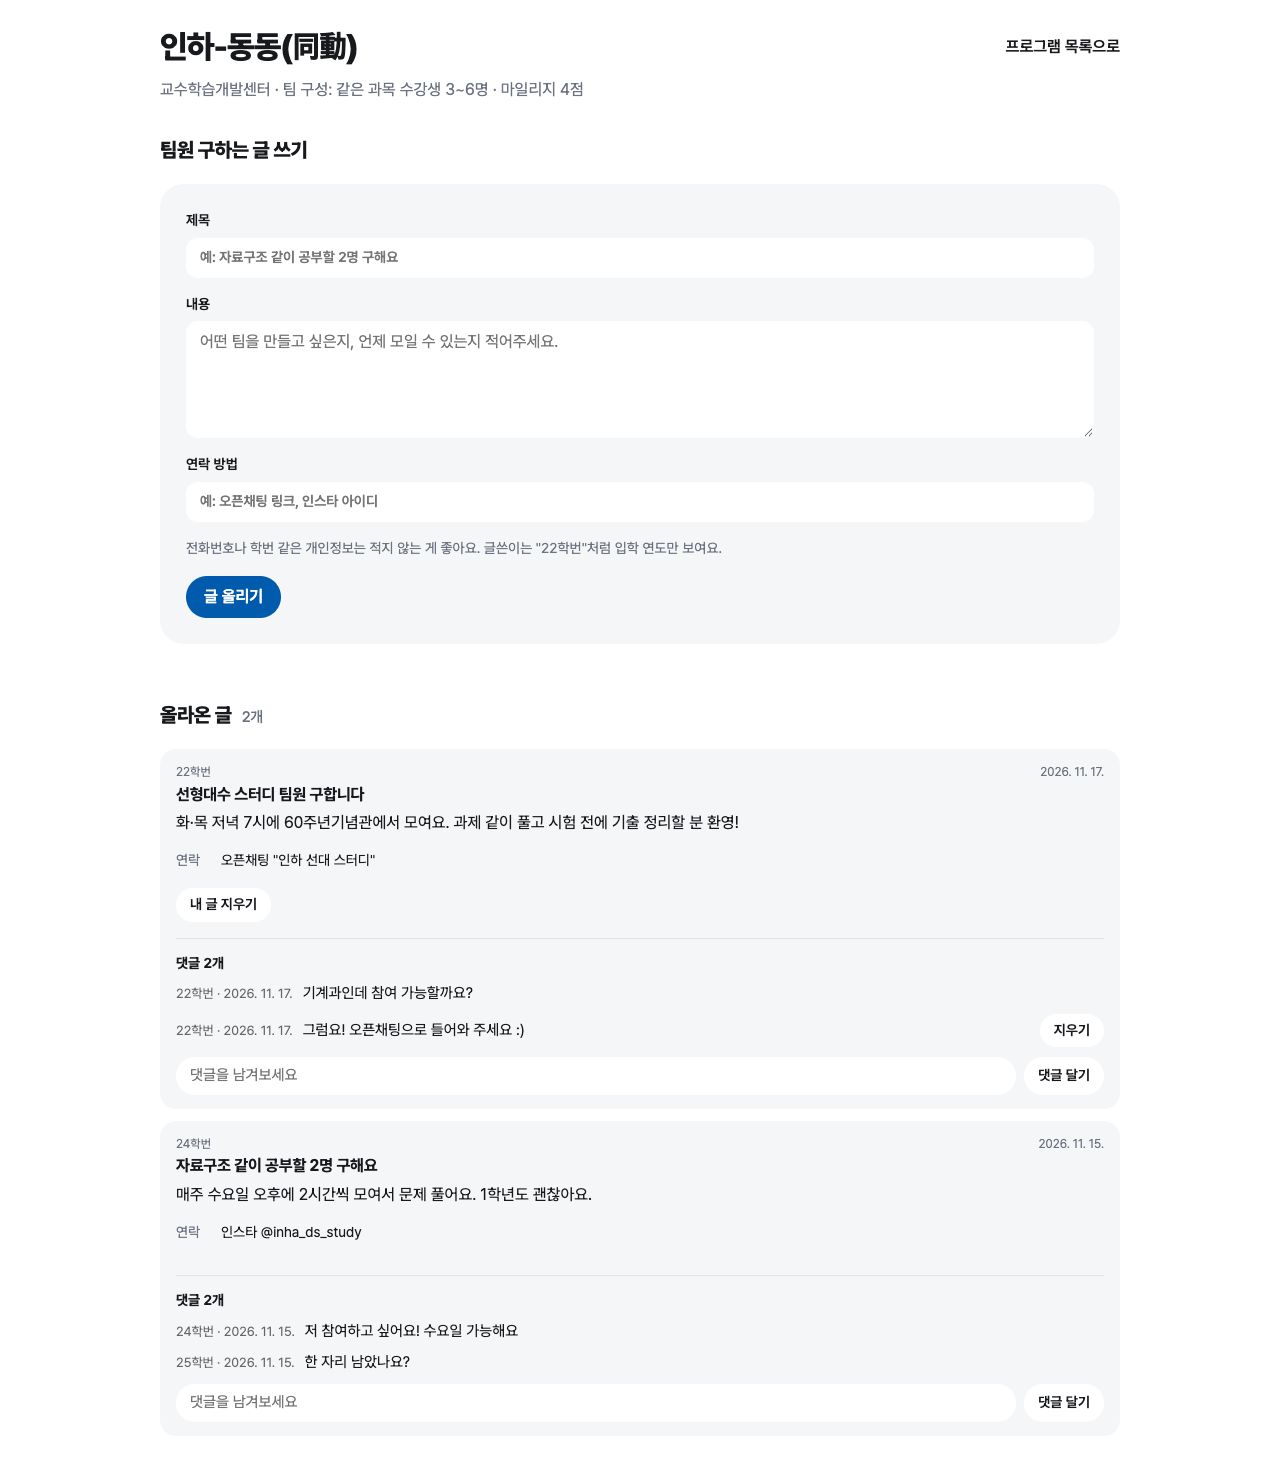
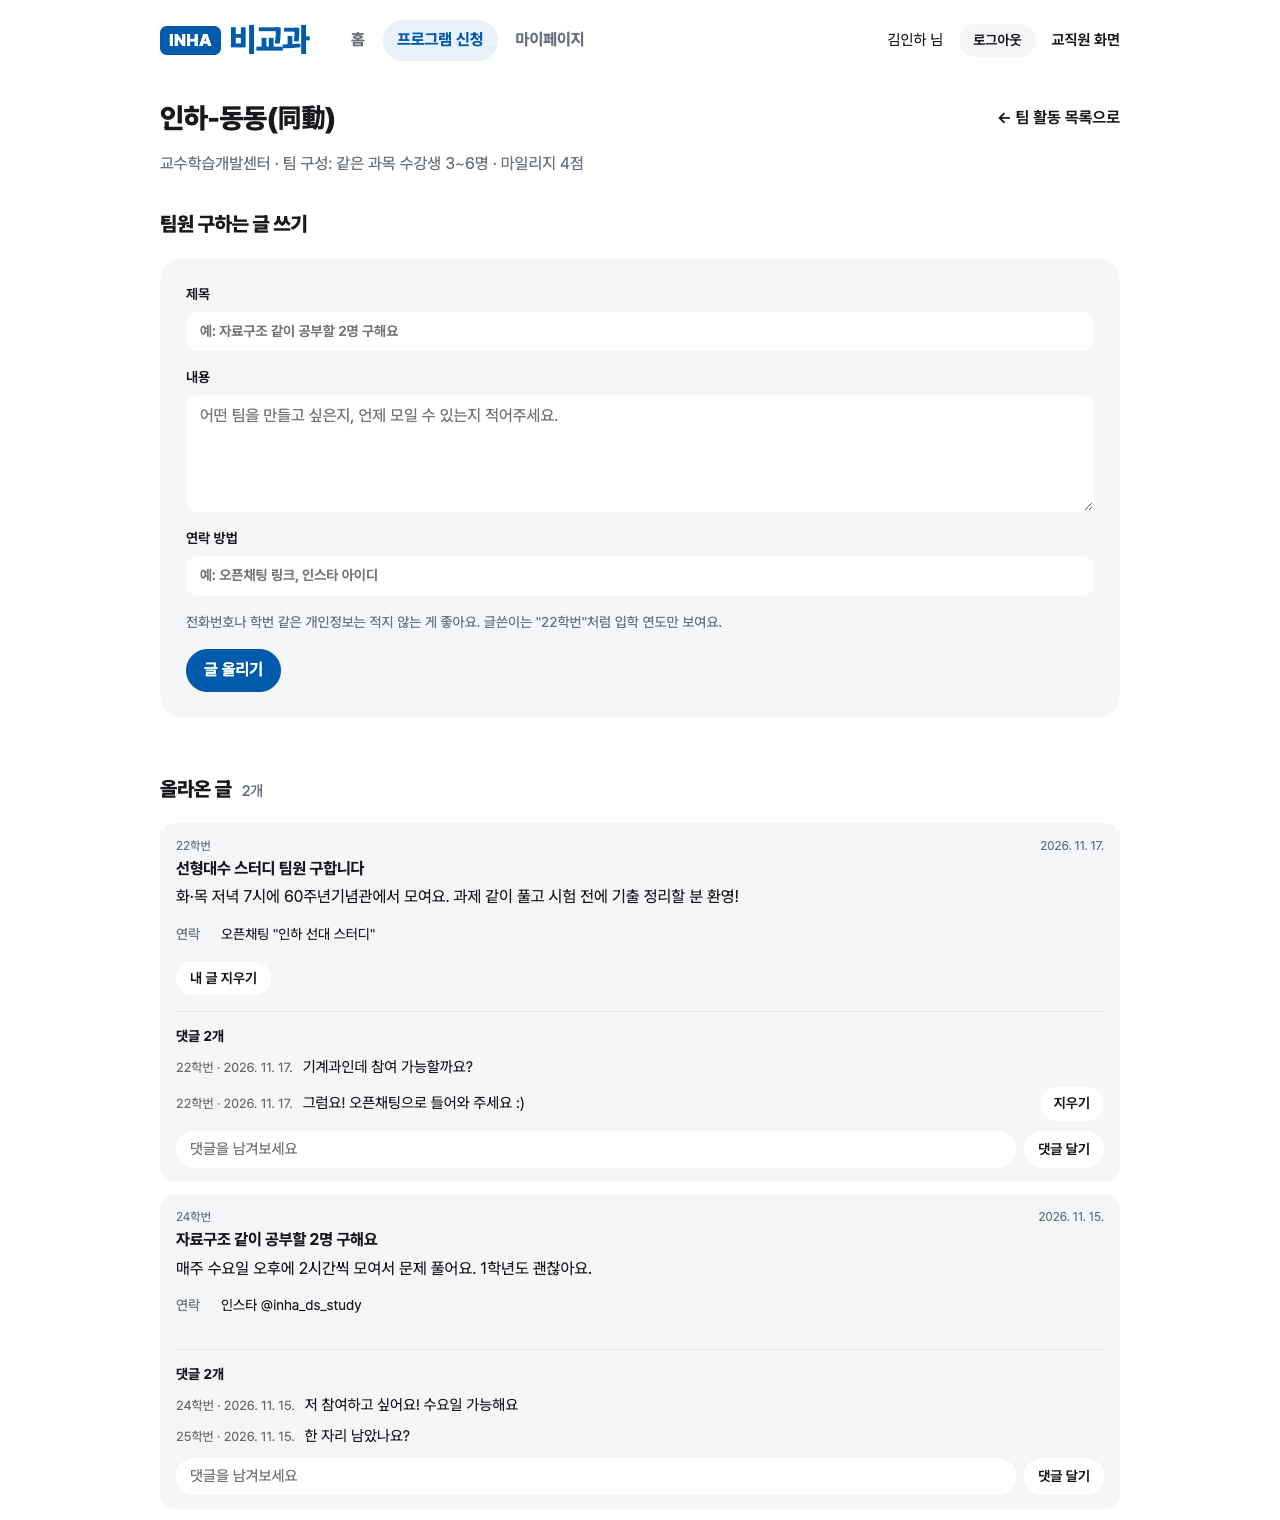
feat: 팀원 구하기 화면에도 위쪽 로고 메뉴

diff --git a/team.html b/team.html
@@ -5,14 +5,30 @@
 <meta name="viewport" content="width=device-width, initial-scale=1">
 <title>팀원 구하기 · 인하 비교과 마일리지</title>
 <link rel="stylesheet" href="https://cdn.jsdelivr.net/gh/orioncactus/pretendard@v1.3.9/dist/web/variable/pretendardvariable-dynamic-subset.min.css">
-<link rel="stylesheet" href="css/style.css?v=29">
+<link rel="stylesheet" href="css/style.css?v=30">
 </head>
 <body>
 <main>
-  <header class="top">
-    <h1 id="name"></h1>
-    <a href="programs.html">프로그램 목록으로</a>
+  <header class="nav">
+    <h1 class="brand"><a href="index.html" data-keep><span>INHA</span>비교과</a></h1>
+    <nav class="menu" aria-label="주요 메뉴">
+      <a href="index.html" data-keep>홈</a>
+      <a href="programs.html" data-keep aria-current="page">프로그램 신청</a>
+      <a href="mypage.html" data-keep>마이페이지</a>
+    </nav>
+    <div class="account">
+      <span id="who"></span>
+      <button type="button" id="logout">로그아웃</button>
+      <a href="admin.html">교직원 화면</a>
+    </div>
   </header>
+
+  <p id="demoBanner" class="notice" hidden><strong>시연 모드예요.</strong> 가짜 학번 <span id="demoId"></span> 학생의 화면이에요. <a href="admin.html">교직원 화면으로</a></p>
+
+  <div class="top">
+    <h2 id="name"></h2>
+    <a href="programs.html?show=team" data-keep>← 팀 활동 목록으로</a>
+  </div>
   <p class="sub" id="summary"></p>
   <p class="notice" id="localNotice"><strong>지금은 시험 버전이에요.</strong> 쓴 글은 이 브라우저에만 저장돼서 다른 사람에게는 아직 보이지 않아요.</p>
 
@@ -32,11 +48,12 @@
   <ul id="posts" class="posts" aria-labelledby="posts-title"></ul>
   <p id="empty" class="empty">아직 글이 없어요. 첫 글을 써보세요.</p>
 </main>
-<script src="js/data.js?v=29"></script>
-<script src="js/logic.js?v=29"></script>
-<script src="js/demo.js?v=29"></script>
-<script src="js/config.js?v=29"></script>
-<script src="js/board.js?v=29"></script>
-<script src="js/team.js?v=29"></script>
+<script src="js/data.js?v=30"></script>
+<script src="js/logic.js?v=30"></script>
+<script src="js/demo.js?v=30"></script>
+<script src="js/config.js?v=30"></script>
+<script src="js/board.js?v=30"></script>
+<script src="js/common.js?v=30"></script>
+<script src="js/team.js?v=30"></script>
 </body>
 </html>

diff --git a/js/team.js b/js/team.js
@@ -1,17 +1,17 @@
-const $ = (id) => document.getElementById(id);
-const el = (tag, className = '', text = '') => Object.assign(document.createElement(tag), { className, textContent: text });
-
-let session = 'guest';
-try { session = localStorage.getItem('inha-session'); } catch { /* 저장소를 못 쓰면 로그인 없이 통과 */ }
-if (!session) location.replace('login.html');
-
+// 팀원 구하기 화면 (common.js 다음에 불러옴). 로그인 확인과 위쪽 줄, 글 불러오기(boardPosts)는 common.js가 함.
 const program = PROGRAMS.find((p) => p.name === new URLSearchParams(location.search).get('p') && p.team);
 if (!program) location.replace('programs.html');
 
 // 글·댓글은 board.js가 저장함 (서버가 연결돼 있으면 서버, 아니면 이 브라우저)
 let posts = [];
 const fail = () => alert('게시판에 연결하지 못했어요. 잠시 후 다시 해주세요.');
-const reload = () => board.list(session).then((all) => { posts = all.filter((p) => p.program === program.name); render(); }).catch(fail);
+const reload = loadBoard;
+// common.js가 글을 받아오거나 다른 탭에서 바뀌면 부름
+function refresh() {
+  if (!program) return;
+  posts = boardPosts.filter((p) => p.program === program.name);
+  render();
+}
 const button = (text, onClick) => {
   const b = Object.assign(el('button', '', text), { type: 'button' });
   b.addEventListener('click', onClick);
@@ -67,7 +67,7 @@ function commentsOf(post) {
     e.preventDefault();
     const body = input.value.trim();
     if (!body) return;
-    board.addComment(session, post.id, body).then(reload).catch(fail);
+    board.addComment(me, post.id, body).then(reload).catch(fail);
   });
   box.append(ul, form);
   return box;
@@ -83,9 +83,6 @@ if (program) {
     e.preventDefault();
     const fields = { title: $('title').value.trim(), body: $('body').value.trim(), contact: $('contact').value.trim() };
     if (!fields.title || !fields.body || !fields.contact) return;
-    board.addPost(session, program.name, fields).then(() => { e.target.reset(); return reload(); }).catch(fail);
+    board.addPost(me, program.name, fields).then(() => { e.target.reset(); return reload(); }).catch(fail);
   });
-  // 다른 탭에서 글·댓글이 바뀌면 다시 읽음
-  window.addEventListener('storage', reload);
-  reload();
 }

diff --git a/mypage.html b/mypage.html
@@ -5,7 +5,7 @@
 <meta name="viewport" content="width=device-width, initial-scale=1">
 <title>마이페이지 · 인하 비교과 마일리지</title>
 <link rel="stylesheet" href="https://cdn.jsdelivr.net/gh/orioncactus/pretendard@v1.3.9/dist/web/variable/pretendardvariable-dynamic-subset.min.css">
-<link rel="stylesheet" href="css/style.css?v=29">
+<link rel="stylesheet" href="css/style.css?v=30">
 </head>
 <body>
 <main class="my">
@@ -59,12 +59,12 @@
   <ul id="myComments" class="posts" aria-labelledby="comments-title"></ul>
   <p id="commentsEmpty" class="empty">아직 쓴 댓글이 없어요.</p>
 </main>
-<script src="js/data.js?v=29"></script>
-<script src="js/logic.js?v=29"></script>
-<script src="js/demo.js?v=29"></script>
-<script src="js/config.js?v=29"></script>
-<script src="js/board.js?v=29"></script>
-<script src="js/common.js?v=29"></script>
-<script src="js/mypage.js?v=29"></script>
+<script src="js/data.js?v=30"></script>
+<script src="js/logic.js?v=30"></script>
+<script src="js/demo.js?v=30"></script>
+<script src="js/config.js?v=30"></script>
+<script src="js/board.js?v=30"></script>
+<script src="js/common.js?v=30"></script>
+<script src="js/mypage.js?v=30"></script>
 </body>
 </html>

diff --git a/programs.html b/programs.html
@@ -5,7 +5,7 @@
 <meta name="viewport" content="width=device-width, initial-scale=1">
 <title>프로그램 신청 · 인하 비교과 마일리지</title>
 <link rel="stylesheet" href="https://cdn.jsdelivr.net/gh/orioncactus/pretendard@v1.3.9/dist/web/variable/pretendardvariable-dynamic-subset.min.css">
-<link rel="stylesheet" href="css/style.css?v=29">
+<link rel="stylesheet" href="css/style.css?v=30">
 </head>
 <body>
 <main>
@@ -53,12 +53,12 @@
       확정 마일리지는 인하포털 → 학사행정 → 비교과과정에서 확인하세요.</p>
   </div>
 </footer>
-<script src="js/data.js?v=29"></script>
-<script src="js/logic.js?v=29"></script>
-<script src="js/demo.js?v=29"></script>
-<script src="js/config.js?v=29"></script>
-<script src="js/board.js?v=29"></script>
-<script src="js/common.js?v=29"></script>
-<script src="js/programs.js?v=29"></script>
+<script src="js/data.js?v=30"></script>
+<script src="js/logic.js?v=30"></script>
+<script src="js/demo.js?v=30"></script>
+<script src="js/config.js?v=30"></script>
+<script src="js/board.js?v=30"></script>
+<script src="js/common.js?v=30"></script>
+<script src="js/programs.js?v=30"></script>
 </body>
 </html>

diff --git a/index.html b/index.html
@@ -5,7 +5,7 @@
 <meta name="viewport" content="width=device-width, initial-scale=1">
 <title>인하 비교과 마일리지</title>
 <link rel="stylesheet" href="https://cdn.jsdelivr.net/gh/orioncactus/pretendard@v1.3.9/dist/web/variable/pretendardvariable-dynamic-subset.min.css">
-<link rel="stylesheet" href="css/style.css?v=29">
+<link rel="stylesheet" href="css/style.css?v=30">
 </head>
 <body>
 <main>
@@ -163,12 +163,12 @@
       확정 마일리지는 인하포털 → 학사행정 → 비교과과정에서 확인하세요.</p>
   </div>
 </footer>
-<script src="js/data.js?v=29"></script>
-<script src="js/logic.js?v=29"></script>
-<script src="js/demo.js?v=29"></script>
-<script src="js/config.js?v=29"></script>
-<script src="js/board.js?v=29"></script>
-<script src="js/common.js?v=29"></script>
-<script src="js/home.js?v=29"></script>
+<script src="js/data.js?v=30"></script>
+<script src="js/logic.js?v=30"></script>
+<script src="js/demo.js?v=30"></script>
+<script src="js/config.js?v=30"></script>
+<script src="js/board.js?v=30"></script>
+<script src="js/common.js?v=30"></script>
+<script src="js/home.js?v=30"></script>
 </body>
 </html>

diff --git a/login.html b/login.html
@@ -5,7 +5,7 @@
 <meta name="viewport" content="width=device-width, initial-scale=1">
 <title>로그인 · 인하 비교과 마일리지</title>
 <link rel="stylesheet" href="https://cdn.jsdelivr.net/gh/orioncactus/pretendard@v1.3.9/dist/web/variable/pretendardvariable-dynamic-subset.min.css">
-<link rel="stylesheet" href="css/style.css?v=29">
+<link rel="stylesheet" href="css/style.css?v=30">
 </head>
 <body class="login">
   <section class="login-art">
@@ -43,9 +43,9 @@
     </form>
   </main>
 
-<script src="js/data.js?v=29"></script>
-<script src="js/logic.js?v=29"></script>
-<script src="js/demo.js?v=29"></script>
+<script src="js/data.js?v=30"></script>
+<script src="js/logic.js?v=30"></script>
+<script src="js/demo.js?v=30"></script>
 <script>
   // shortcut: 진짜 로그인이 아님. 학번(교직원은 사번)만 이 브라우저에 기억하고 비밀번호는 버림. 이름·학과는 마이페이지에서 적음. 서버(Supabase)나 학교 로그인으로 바꿀 때 이 부분을 교체.
   const $ = (id) => document.getElementById(id);

diff --git a/admin.html b/admin.html
@@ -5,7 +5,7 @@
 <meta name="viewport" content="width=device-width, initial-scale=1">
 <title>교직원 화면 (시연용) · 인하 비교과 마일리지</title>
 <link rel="stylesheet" href="https://cdn.jsdelivr.net/gh/orioncactus/pretendard@v1.3.9/dist/web/variable/pretendardvariable-dynamic-subset.min.css">
-<link rel="stylesheet" href="css/style.css?v=29">
+<link rel="stylesheet" href="css/style.css?v=30">
 </head>
 <body>
 <main>
@@ -112,9 +112,9 @@
     <div class="actions" style="margin-top:32px"><button type="button" id="removeProgram" hidden>이 활동 삭제</button></div>
   </section>
 </main>
-<script src="js/data.js?v=29"></script>
-<script src="js/logic.js?v=29"></script>
-<script src="js/demo.js?v=29"></script>
-<script src="js/admin.js?v=29"></script>
+<script src="js/data.js?v=30"></script>
+<script src="js/logic.js?v=30"></script>
+<script src="js/demo.js?v=30"></script>
+<script src="js/admin.js?v=30"></script>
 </body>
 </html>

diff --git a/css/style.css b/css/style.css
@@ -43,6 +43,7 @@ input:not([type=checkbox], [type=radio]):focus-visible, textarea:focus-visible, 
 /* 위쪽 줄 */
 .nav, .top { display: flex; flex-wrap: wrap; justify-content: space-between; align-items: center; gap: 8px 16px; padding: 8px 0 28px; }
 .top { padding-bottom: 4px; }
+.top h2 { font-size: 1.75rem; margin: 0; }
 .nav { position: sticky; top: 0; z-index: 5; padding: 12px 20px; margin: -12px -20px 16px; background: rgb(255 255 255 / .82); backdrop-filter: saturate(1.6) blur(14px); -webkit-backdrop-filter: saturate(1.6) blur(14px); }
 .brand { font-size: 2rem; color: var(--inha); display: flex; align-items: center; gap: 8px; }
 .brand a { display: flex; align-items: center; gap: 8px; text-decoration: none; }
